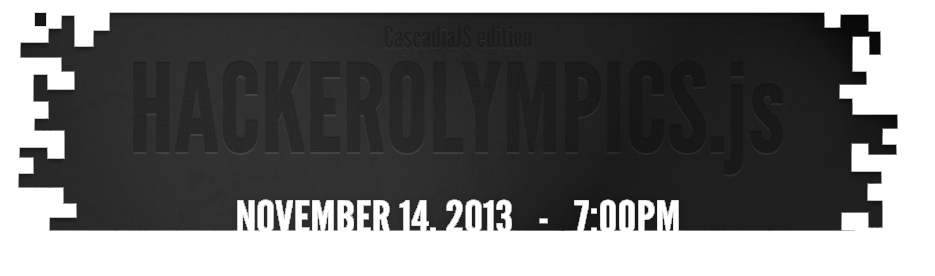
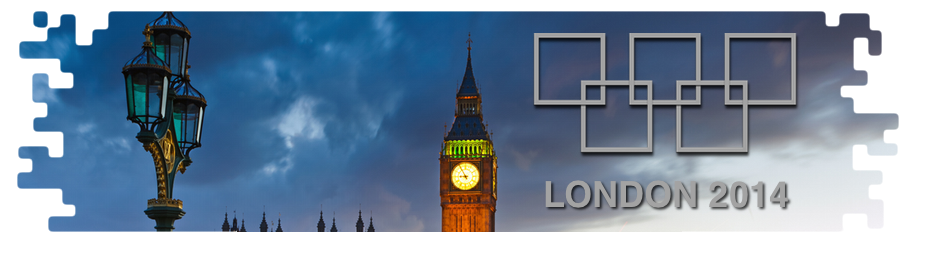
Updates through the terminal because Michael complained about the mac app

diff --git a/index.html b/index.html
@@ -31,7 +31,7 @@
           <div class='sponsors'>
             <img class='img-thumbnail' src='img/sponsors/twilio.svg' width='160'>
             <img class='img-thumbnail' src='img/sponsors/send-grid.png' width='160'>
-            <img class='img-thumbnail' src='img/sponsors/firebase.png' width='160'>
+            <img class='img-thumbnail' src='img/sponsors/importio.png' width='160'>
           </div>
         </div>
       </div>
@@ -71,7 +71,7 @@
             </li>
           </ul>
           <p class='navbar-text pull-right'>
-            CascadiaJS EDITION
+            London Edition
           </p>
         </div>
       </nav>
